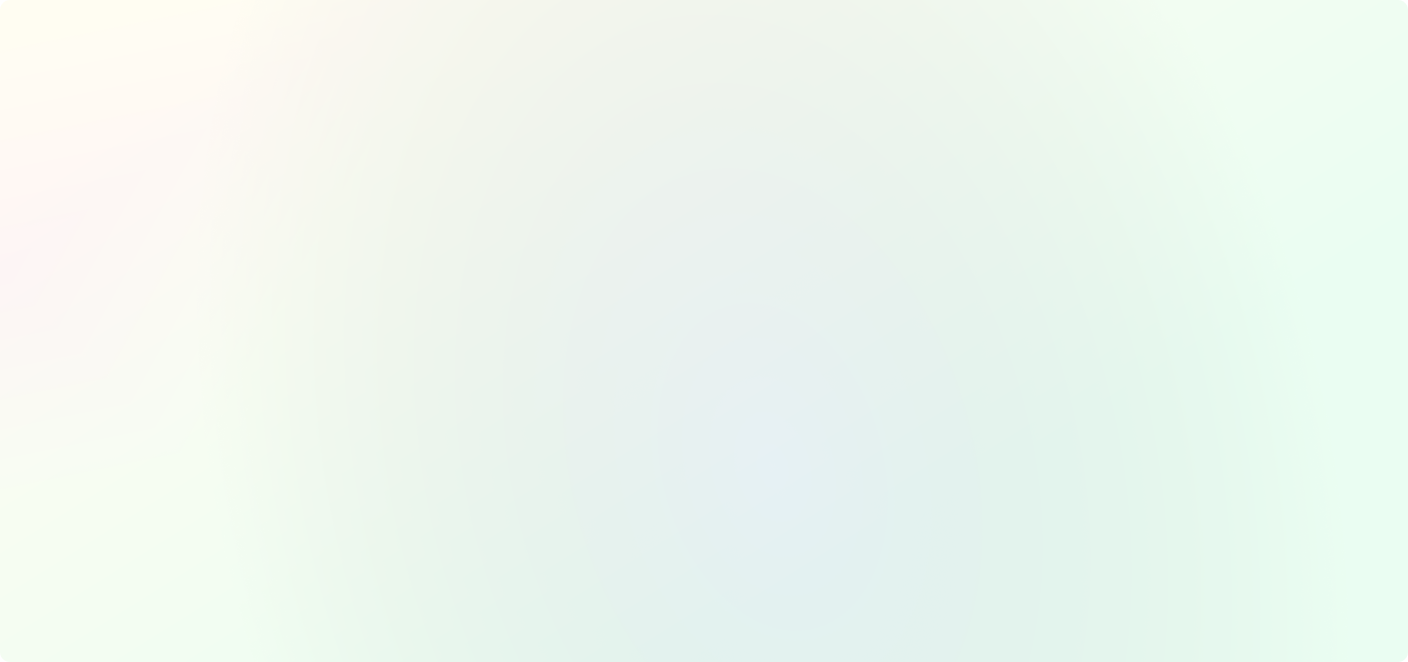
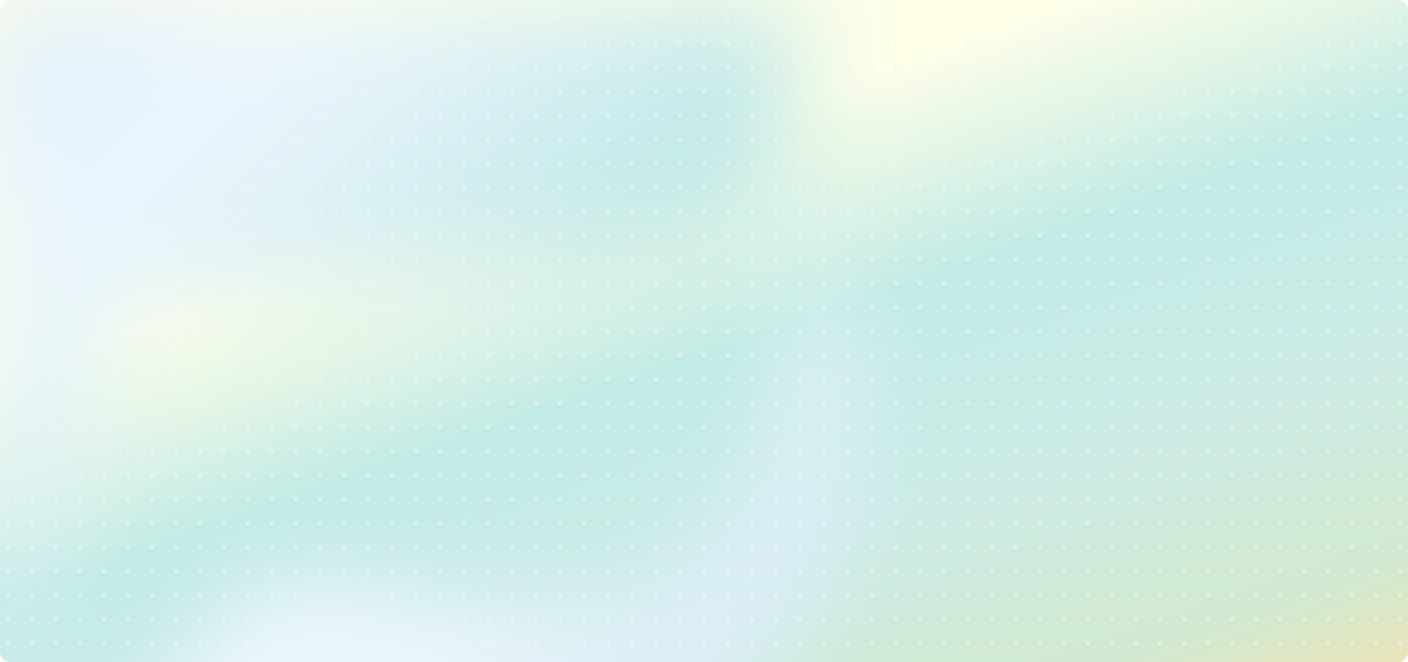
Background image updates

diff --git a/src/Footer.css b/src/Footer.css
@@ -1,6 +1,6 @@
 .footer {
   box-sizing: border-box;
-  background-color: #100C3A;
+  background-image: url('./images/Footer.png');
   margin: 16px;
   border-radius: 10px;
 }

diff --git a/src/Grid.css b/src/Grid.css
@@ -18,7 +18,7 @@
 
 .grid-heading-content {
   position: relative;
-  font-weight: 400;
+  font-weight: 500;
 }
 
 .grid-heading-content::after {
